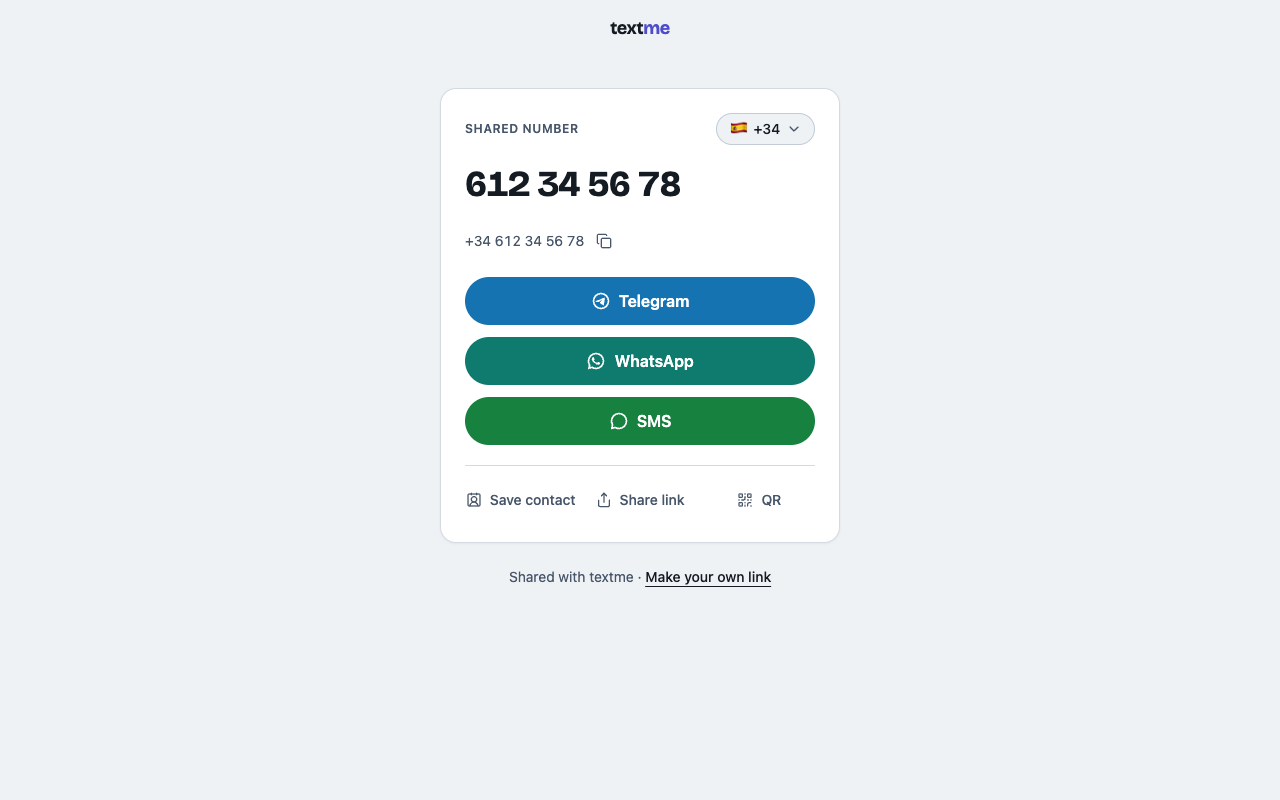
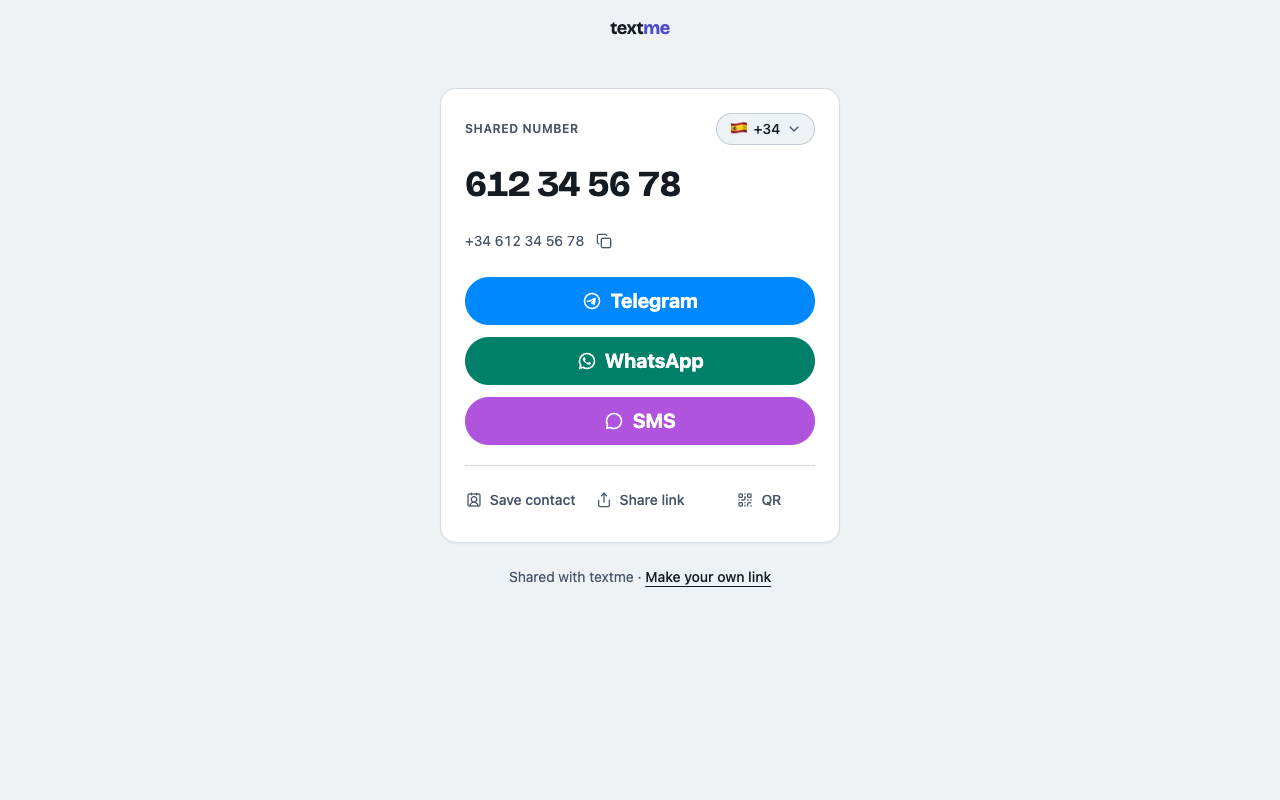
Use each app's own light and dark accent for the message buttons
Telegram: #0088FF day / #3E88F7 night (Telegram-iOS default themes).
WhatsApp: #008069 light (its primary teal) / #25D366 dark (its brand
green, which WhatsApp pairs with dark text). SMS: Apple systemPurple
#AF52DE / #BF5AF2 so it no longer reads as a second green. Each brand
gets a foreground token; labels are 20px bold so the large-text 3:1
threshold applies where white on the brand color sits at 3.5-4.1.

Changed region(s): [[0.3438, 0.4375, 0.6562, 0.5625], [0.3438, 0.3438, 0.6562, 0.4062]]

diff --git a/mockups/card.css b/mockups/card.css
@@ -1,1 +1,1 @@
-*,:after,:before{--tw-border-spacing-x:0;--tw-border-spacing-y:0;--tw-translate-x:0;--tw-translate-y:0;--tw-rotate:0;--tw-skew-x:0;--tw-skew-y:0;--tw-scale-x:1;--tw-scale-y:1;--tw-pan-x: ;--tw-pan-y: ;--tw-pinch-zoom: ;--tw-scroll-snap-strictness:proximity;--tw-gradient-from-position: ;--tw-gradient-via-position: ;--tw-gradient-to-position: ;--tw-ordinal: ;--tw-slashed-zero: ;--tw-numeric-figure: ;--tw-numeric-spacing: ;--tw-numeric-fraction: ;--tw-ring-inset: ;--tw-ring-offset-width:0px;--tw-ring-offset-color:#fff;--tw-ring-color:rgba(59,130,246,.5);--tw-ring-offset-shadow:0 0 #0000;--tw-ring-shadow:0 0 #0000;--tw-shadow:0 0 #0000;--tw-shadow-colored:0 0 #0000;--tw-blur: ;--tw-brightness: ;--tw-contrast: ;--tw-grayscale: ;--tw-hue-rotate: ;--tw-invert: ;--tw-saturate: ;--tw-sepia: ;--tw-drop-shadow: ;--tw-backdrop-blur: ;--tw-backdrop-brightness: ;--tw-backdrop-contrast: ;--tw-backdrop-grayscale: ;--tw-backdrop-hue-rotate: ;--tw-backdrop-invert: ;--tw-backdrop-opacity: ;--tw-backdrop-saturate: ;--tw-backdrop-sepia: ;--tw-contain-size: ;--tw-contain-layout: ;--tw-contain-paint: ;--tw-contain-style: }::backdrop{--tw-border-spacing-x:0;--tw-border-spacing-y:0;--tw-translate-x:0;--tw-translate-y:0;--tw-rotate:0;--tw-skew-x:0;--tw-skew-y:0;--tw-scale-x:1;--tw-scale-y:1;--tw-pan-x: ;--tw-pan-y: ;--tw-pinch-zoom: ;--tw-scroll-snap-strictness:proximity;--tw-gradient-from-position: ;--tw-gradient-via-position: ;--tw-gradient-to-position: ;--tw-ordinal: ;--tw-slashed-zero: ;--tw-numeric-figure: ;--tw-numeric-spacing: ;--tw-numeric-fraction: ;--tw-ring-inset: ;--tw-ring-offset-width:0px;--tw-ring-offset-color:#fff;--tw-ring-color:rgba(59,130,246,.5);--tw-ring-offset-shadow:0 0 #0000;--tw-ring-shadow:0 0 #0000;--tw-shadow:0 0 #0000;--tw-shadow-colored:0 0 #0000;--tw-blur: ;--tw-brightness: ;--tw-contrast: ;--tw-grayscale: ;--tw-hue-rotate: ;--tw-invert: ;--tw-saturate: ;--tw-sepia: ;--tw-drop-shadow: ;--tw-backdrop-blur: ;--tw-backdrop-brightness: ;--tw-backdrop-contrast: ;--tw-backdrop-grayscale: ;--tw-backdrop-hue-rotate: ;--tw-backdrop-invert: ;--tw-backdrop-opacity: ;--tw-backdrop-saturate: ;--tw-backdrop-sepia: ;--tw-contain-size: ;--tw-contain-layout: ;--tw-contain-paint: ;--tw-contain-style: }/*! tailwindcss v3.4.19 | MIT License | https://tailwindcss.com*/*,:after,:before{box-sizing:border-box;border:0 solid #e5e7eb}:after,:before{--tw-content:""}:host,html{line-height:1.5;-webkit-text-size-adjust:100%;-moz-tab-size:4;-o-tab-size:4;tab-size:4;font-family:ui-sans-serif,system-ui,sans-serif,Apple Color Emoji,Segoe UI Emoji,Segoe UI Symbol,Noto Color Emoji;font-feature-settings:normal;font-variation-settings:normal;-webkit-tap-highlight-color:transparent}body{margin:0;line-height:inherit}hr{height:0;color:inherit;border-top-width:1px}abbr:where([title]){-webkit-text-decoration:underline dotted;text-decoration:underline dotted}h1,h2,h3,h4,h5,h6{font-size:inherit;font-weight:inherit}a{color:inherit;text-decoration:inherit}b,strong{font-weight:bolder}code,kbd,pre,samp{font-family:ui-monospace,SFMono-Regular,Menlo,Monaco,Consolas,Liberation Mono,Courier New,monospace;font-feature-settings:normal;font-variation-settings:normal;font-size:1em}small{font-size:80%}sub,sup{font-size:75%;line-height:0;position:relative;vertical-align:baseline}sub{bottom:-.25em}sup{top:-.5em}table{text-indent:0;border-color:inherit;border-collapse:collapse}button,input,optgroup,select,textarea{font-family:inherit;font-feature-settings:inherit;font-variation-settings:inherit;font-size:100%;font-weight:inherit;line-height:inherit;letter-spacing:inherit;color:inherit;margin:0;padding:0}button,select{text-transform:none}button,input:where([type=button]),input:where([type=reset]),input:where([type=submit]){-webkit-appearance:button;background-color:transparent;background-image:none}:-moz-focusring{outline:auto}:-moz-ui-invalid{box-shadow:none}progress{vertical-align:baseline}::-webkit-inner-spin-button,::-webkit-outer-spin-button{height:auto}[type=search]{-webkit-appearance:textfield;outline-offset:-2px}::-webkit-search-decoration{-webkit-appearance:none}::-webkit-file-upload-button{-webkit-appearance:button;font:inherit}summary{display:list-item}blockquote,dd,dl,figure,h1,h2,h3,h4,h5,h6,hr,p,pre{margin:0}fieldset{margin:0}fieldset,legend{padding:0}menu,ol,ul{list-style:none;margin:0;padding:0}dialog{padding:0}textarea{resize:vertical}input::-moz-placeholder,textarea::-moz-placeholder{opacity:1;color:#9ca3af}input::placeholder,textarea::placeholder{opacity:1;color:#9ca3af}[role=button],button{cursor:pointer}:disabled{cursor:default}audio,canvas,embed,iframe,img,object,svg,video{display:block;vertical-align:middle}img,video{max-width:100%;height:auto}[hidden]:where(:not([hidden=until-found])){display:none}:root{--background:0 0% 100%;--foreground:222.2 84% 4.9%;--muted:210 40% 96.1%;--muted-foreground:215.4 16.3% 46.9%;--popover:0 0% 100%;--popover-foreground:222.2 84% 4.9%;--card:0 0% 100%;--card-foreground:222.2 84% 4.9%;--border:214.3 31.8% 91.4%;--input:214.3 31.8% 91.4%;--primary:222.2 47.4% 11.2%;--primary-foreground:210 40% 98%;--secondary:210 40% 96.1%;--secondary-foreground:222.2 47.4% 11.2%;--accent:16 85% 95%;--accent-foreground:16 60% 35%;--destructive:0 72.2% 50.6%;--destructive-foreground:210 40% 98%;--ring:222.2 84% 4.9%;--radius:1rem;--coral:16 85% 60%;--coral-foreground:0 0% 100%}.dark{--background:222.2 84% 4.9%;--foreground:210 40% 98%;--muted:217.2 32.6% 17.5%;--muted-foreground:215 20.2% 65.1%;--popover:222.2 84% 4.9%;--popover-foreground:210 40% 98%;--card:222.2 84% 4.9%;--card-foreground:210 40% 98%;--border:217.2 32.6% 17.5%;--input:217.2 32.6% 17.5%;--primary:210 40% 98%;--primary-foreground:222.2 47.4% 11.2%;--secondary:217.2 32.6% 17.5%;--secondary-foreground:210 40% 98%;--accent:16 60% 25%;--accent-foreground:16 85% 90%;--destructive:0 62.8% 30.6%;--destructive-foreground:210 40% 98%;--ring:212.7 26.8% 83.9%;--coral:16 75% 55%;--coral-foreground:0 0% 100%}*{--tw-border-opacity:1;border-color:hsl(var(--border)/var(--tw-border-opacity,1))}body{--tw-bg-opacity:1;background-color:hsl(var(--background)/var(--tw-bg-opacity,1));--tw-text-opacity:1;color:hsl(var(--foreground)/var(--tw-text-opacity,1))}.pointer-events-none{pointer-events:none}.absolute{position:absolute}.relative{position:relative}.inset-0{inset:0}.inset-x-0{left:0;right:0}.bottom-0{bottom:0}.left-1\/2{left:50%}.right-6{right:1.5rem}.top-1\/2{top:50%}.top-\[4\.5rem\]{top:4.5rem}.z-20{z-index:20}.z-30{z-index:30}.-my-1{margin-top:-.25rem;margin-bottom:-.25rem}.mx-auto{margin-left:auto;margin-right:auto}.-mr-2{margin-right:-.5rem}.ml-2{margin-left:.5rem}.ml-auto{margin-left:auto}.mt-0\.5{margin-top:.125rem}.mt-1{margin-top:.25rem}.mt-4{margin-top:1rem}.block{display:block}.inline{display:inline}.flex{display:flex}.inline-flex{display:inline-flex}.grid{display:grid}.hidden{display:none}.h-10{height:2.5rem}.h-12{height:3rem}.h-14{height:3.5rem}.h-3\.5{height:.875rem}.h-4{height:1rem}.h-5{height:1.25rem}.h-52{height:13rem}.h-7{height:1.75rem}.h-8{height:2rem}.h-9{height:2.25rem}.h-\[18px\]{height:18px}.h-auto{height:auto}.h-full{height:100%}.w-10{width:2.5rem}.w-12{width:3rem}.w-3\.5{width:.875rem}.w-4{width:1rem}.w-5{width:1.25rem}.w-52{width:13rem}.w-7{width:1.75rem}.w-72{width:18rem}.w-8{width:2rem}.w-80{width:20rem}.w-9{width:2.25rem}.w-\[18px\]{width:18px}.w-full{width:100%}.w-max{width:-moz-max-content;width:max-content}.min-w-0{min-width:0}.max-w-\[11rem\]{max-width:11rem}.max-w-md{max-width:28rem}.max-w-xl{max-width:36rem}.flex-1{flex:1 1 0%}.shrink-0{flex-shrink:0}.-translate-x-1\/2{--tw-translate-x:-50%}.-translate-x-1\/2,.-translate-y-1\/2{transform:translate(var(--tw-translate-x),var(--tw-translate-y)) rotate(var(--tw-rotate)) skewX(var(--tw-skew-x)) skewY(var(--tw-skew-y)) scaleX(var(--tw-scale-x)) scaleY(var(--tw-scale-y))}.-translate-y-1\/2{--tw-translate-y:-50%}.transform{transform:translate(var(--tw-translate-x),var(--tw-translate-y)) rotate(var(--tw-rotate)) skewX(var(--tw-skew-x)) skewY(var(--tw-skew-y)) scaleX(var(--tw-scale-x)) scaleY(var(--tw-scale-y))}.resize-none{resize:none}.grid-cols-3{grid-template-columns:repeat(3,minmax(0,1fr))}.flex-wrap{flex-wrap:wrap}.items-start{align-items:flex-start}.items-center{align-items:center}.justify-center{justify-content:center}.justify-between{justify-content:space-between}.gap-1{gap:.25rem}.gap-1\.5{gap:.375rem}.gap-2{gap:.5rem}.gap-3{gap:.75rem}.space-y-1\.5>:not([hidden])~:not([hidden]){--tw-space-y-reverse:0;margin-top:calc(.375rem*(1 - var(--tw-space-y-reverse)));margin-bottom:calc(.375rem*var(--tw-space-y-reverse))}.space-y-2>:not([hidden])~:not([hidden]){--tw-space-y-reverse:0;margin-top:calc(.5rem*(1 - var(--tw-space-y-reverse)));margin-bottom:calc(.5rem*var(--tw-space-y-reverse))}.space-y-3>:not([hidden])~:not([hidden]){--tw-space-y-reverse:0;margin-top:calc(.75rem*(1 - var(--tw-space-y-reverse)));margin-bottom:calc(.75rem*var(--tw-space-y-reverse))}.space-y-4>:not([hidden])~:not([hidden]){--tw-space-y-reverse:0;margin-top:calc(1rem*(1 - var(--tw-space-y-reverse)));margin-bottom:calc(1rem*var(--tw-space-y-reverse))}.space-y-5>:not([hidden])~:not([hidden]){--tw-space-y-reverse:0;margin-top:calc(1.25rem*(1 - var(--tw-space-y-reverse)));margin-bottom:calc(1.25rem*var(--tw-space-y-reverse))}.divide-y>:not([hidden])~:not([hidden]){--tw-divide-y-reverse:0;border-top-width:calc(1px*(1 - var(--tw-divide-y-reverse)));border-bottom-width:calc(1px*var(--tw-divide-y-reverse))}.overflow-hidden,.truncate{overflow:hidden}.truncate{text-overflow:ellipsis}.truncate,.whitespace-nowrap{white-space:nowrap}.rounded-2xl{border-radius:1rem}.rounded-full{border-radius:9999px}.rounded-lg{border-radius:var(--radius)}.rounded-md{border-radius:calc(var(--radius) - 2px)}.rounded-sm{border-radius:calc(var(--radius) - 4px)}.rounded-t-2xl{border-top-left-radius:1rem;border-top-right-radius:1rem}.border{border-width:1px}.border-b{border-bottom-width:1px}.border-t{border-top-width:1px}.border-destructive{--tw-border-opacity:1;border-color:hsl(var(--destructive)/var(--tw-border-opacity,1))}.border-input{--tw-border-opacity:1;border-color:hsl(var(--input)/var(--tw-border-opacity,1))}.bg-\[hsl\(var\(--sms\)\)\]{background-color:hsl(var(--sms))}.bg-\[hsl\(var\(--telegram\)\)\]{background-color:hsl(var(--telegram))}.bg-\[hsl\(var\(--whatsapp\)\)\]{background-color:hsl(var(--whatsapp))}.bg-accent{--tw-bg-opacity:1;background-color:hsl(var(--accent)/var(--tw-bg-opacity,1))}.bg-background{--tw-bg-opacity:1;background-color:hsl(var(--background)/var(--tw-bg-opacity,1))}.bg-black\/50{background-color:rgba(0,0,0,.5)}.bg-card{--tw-bg-opacity:1;background-color:hsl(var(--card)/var(--tw-bg-opacity,1))}.bg-muted{--tw-bg-opacity:1;background-color:hsl(var(--muted)/var(--tw-bg-opacity,1))}.bg-popover{--tw-bg-opacity:1;background-color:hsl(var(--popover)/var(--tw-bg-opacity,1))}.bg-primary{--tw-bg-opacity:1;background-color:hsl(var(--primary)/var(--tw-bg-opacity,1))}.bg-primary\/10{background-color:hsl(var(--primary)/.1)}.bg-secondary{--tw-bg-opacity:1;background-color:hsl(var(--secondary)/var(--tw-bg-opacity,1))}.bg-transparent{background-color:transparent}.bg-white{--tw-bg-opacity:1;background-color:rgb(255 255 255/var(--tw-bg-opacity,1))}.p-1{padding:.25rem}.p-2{padding:.5rem}.p-3{padding:.75rem}.p-6{padding:1.5rem}.px-1\.5{padding-left:.375rem;padding-right:.375rem}.px-2{padding-left:.5rem;padding-right:.5rem}.px-3{padding-left:.75rem;padding-right:.75rem}.px-4{padding-left:1rem;padding-right:1rem}.px-6{padding-left:1.5rem;padding-right:1.5rem}.py-1\.5{padding-top:.375rem;padding-bottom:.375rem}.py-2{padding-top:.5rem;padding-bottom:.5rem}.py-2\.5{padding-top:.625rem;padding-bottom:.625rem}.pb-10{padding-bottom:2.5rem}.pb-2{padding-bottom:.5rem}.pb-4{padding-bottom:1rem}.pb-6{padding-bottom:1.5rem}.pl-3{padding-left:.75rem}.pr-1{padding-right:.25rem}.pt-1{padding-top:.25rem}.pt-4{padding-top:1rem}.pt-6{padding-top:1.5rem}.pt-8{padding-top:2rem}.text-center{text-align:center}.font-mono{font-family:ui-monospace,SFMono-Regular,Menlo,Monaco,Consolas,Liberation Mono,Courier New,monospace}.text-3xl{font-size:1.875rem;line-height:2.25rem}.text-4xl{font-size:2.25rem;line-height:2.5rem}.text-base{font-size:1rem;line-height:1.5rem}.text-lg{font-size:1.125rem;line-height:1.75rem}.text-sm{font-size:.875rem;line-height:1.25rem}.text-xl{font-size:1.25rem;line-height:1.75rem}.text-xs{font-size:.75rem;line-height:1rem}.font-bold{font-weight:700}.font-medium{font-weight:500}.font-normal{font-weight:400}.font-semibold{font-weight:600}.uppercase{text-transform:uppercase}.tabular-nums{--tw-numeric-spacing:tabular-nums;font-variant-numeric:var(--tw-ordinal) var(--tw-slashed-zero) var(--tw-numeric-figure) var(--tw-numeric-spacing) var(--tw-numeric-fraction)}.leading-6{line-height:1.5rem}.tracking-tight{letter-spacing:-.025em}.tracking-wider{letter-spacing:.05em}.text-\[hsl\(var\(--brand-foreground\)\)\]{color:hsl(var(--brand-foreground))}.text-\[hsl\(var\(--sms\)\)\]{color:hsl(var(--sms))}.text-\[hsl\(var\(--telegram\)\)\]{color:hsl(var(--telegram))}.text-\[hsl\(var\(--whatsapp\)\)\]{color:hsl(var(--whatsapp))}.text-accent-foreground{--tw-text-opacity:1;color:hsl(var(--accent-foreground)/var(--tw-text-opacity,1))}.text-black{--tw-text-opacity:1;color:rgb(0 0 0/var(--tw-text-opacity,1))}.text-card-foreground{--tw-text-opacity:1;color:hsl(var(--card-foreground)/var(--tw-text-opacity,1))}.text-destructive{--tw-text-opacity:1;color:hsl(var(--destructive)/var(--tw-text-opacity,1))}.text-foreground{--tw-text-opacity:1;color:hsl(var(--foreground)/var(--tw-text-opacity,1))}.text-muted-foreground{--tw-text-opacity:1;color:hsl(var(--muted-foreground)/var(--tw-text-opacity,1))}.text-muted-foreground\/50{color:hsl(var(--muted-foreground)/.5)}.text-popover-foreground{--tw-text-opacity:1;color:hsl(var(--popover-foreground)/var(--tw-text-opacity,1))}.text-primary{--tw-text-opacity:1;color:hsl(var(--primary)/var(--tw-text-opacity,1))}.text-primary-foreground{--tw-text-opacity:1;color:hsl(var(--primary-foreground)/var(--tw-text-opacity,1))}.text-secondary-foreground{--tw-text-opacity:1;color:hsl(var(--secondary-foreground)/var(--tw-text-opacity,1))}.underline{text-decoration-line:underline}.underline-offset-4{text-underline-offset:4px}.antialiased{-webkit-font-smoothing:antialiased;-moz-osx-font-smoothing:grayscale}.opacity-50{opacity:.5}.shadow-lg{--tw-shadow:0 10px 15px -3px rgba(0,0,0,.1),0 4px 6px -4px rgba(0,0,0,.1);--tw-shadow-colored:0 10px 15px -3px var(--tw-shadow-color),0 4px 6px -4px var(--tw-shadow-color)}.shadow-lg,.shadow-md{box-shadow:var(--tw-ring-offset-shadow,0 0 #0000),var(--tw-ring-shadow,0 0 #0000),var(--tw-shadow)}.shadow-md{--tw-shadow:0 4px 6px -1px rgba(0,0,0,.1),0 2px 4px -2px rgba(0,0,0,.1);--tw-shadow-colored:0 4px 6px -1px var(--tw-shadow-color),0 2px 4px -2px var(--tw-shadow-color)}.shadow-sm{--tw-shadow:0 1px 2px 0 rgba(0,0,0,.05);--tw-shadow-colored:0 1px 2px 0 var(--tw-shadow-color);box-shadow:var(--tw-ring-offset-shadow,0 0 #0000),var(--tw-ring-shadow,0 0 #0000),var(--tw-shadow)}.outline-none{outline:2px solid transparent;outline-offset:2px}.outline{outline-style:solid}.ring{--tw-ring-offset-shadow:var(--tw-ring-inset) 0 0 0 var(--tw-ring-offset-width) var(--tw-ring-offset-color);--tw-ring-shadow:var(--tw-ring-inset) 0 0 0 calc(3px + var(--tw-ring-offset-width)) var(--tw-ring-color)}.ring,.ring-2{box-shadow:var(--tw-ring-offset-shadow),var(--tw-ring-shadow),var(--tw-shadow,0 0 #0000)}.ring-2{--tw-ring-offset-shadow:var(--tw-ring-inset) 0 0 0 var(--tw-ring-offset-width) var(--tw-ring-offset-color);--tw-ring-shadow:var(--tw-ring-inset) 0 0 0 calc(2px + var(--tw-ring-offset-width)) var(--tw-ring-color)}.ring-ring{--tw-ring-opacity:1;--tw-ring-color:hsl(var(--ring)/var(--tw-ring-opacity,1))}.ring-offset-2{--tw-ring-offset-width:2px}.ring-offset-background{--tw-ring-offset-color:hsl(var(--background)/1)}.transition{transition-property:color,background-color,border-color,text-decoration-color,fill,stroke,opacity,box-shadow,transform,filter,backdrop-filter;transition-timing-function:cubic-bezier(.4,0,.2,1);transition-duration:.15s}.transition-colors{transition-property:color,background-color,border-color,text-decoration-color,fill,stroke;transition-timing-function:cubic-bezier(.4,0,.2,1);transition-duration:.15s}.placeholder\:text-muted-foreground::-moz-placeholder{--tw-text-opacity:1;color:hsl(var(--muted-foreground)/var(--tw-text-opacity,1))}.placeholder\:text-muted-foreground::placeholder{--tw-text-opacity:1;color:hsl(var(--muted-foreground)/var(--tw-text-opacity,1))}.hover\:bg-\[hsl\(var\(--sms\)\)\]\/90:hover{background-color:hsl(var(--sms)/.9)}.hover\:bg-\[hsl\(var\(--telegram\)\)\]\/90:hover{background-color:hsl(var(--telegram)/.9)}.hover\:bg-\[hsl\(var\(--whatsapp\)\)\]\/90:hover{background-color:hsl(var(--whatsapp)/.9)}.hover\:bg-accent:hover{--tw-bg-opacity:1;background-color:hsl(var(--accent)/var(--tw-bg-opacity,1))}.hover\:bg-primary\/90:hover{background-color:hsl(var(--primary)/.9)}.hover\:bg-secondary\/80:hover{background-color:hsl(var(--secondary)/.8)}.hover\:text-accent-foreground:hover{--tw-text-opacity:1;color:hsl(var(--accent-foreground)/var(--tw-text-opacity,1))}.focus-visible\:outline-none:focus-visible{outline:2px solid transparent;outline-offset:2px}.focus-visible\:ring-2:focus-visible{--tw-ring-offset-shadow:var(--tw-ring-inset) 0 0 0 var(--tw-ring-offset-width) var(--tw-ring-offset-color);--tw-ring-shadow:var(--tw-ring-inset) 0 0 0 calc(2px + var(--tw-ring-offset-width)) var(--tw-ring-color);box-shadow:var(--tw-ring-offset-shadow),var(--tw-ring-shadow),var(--tw-shadow,0 0 #0000)}.focus-visible\:ring-ring:focus-visible{--tw-ring-opacity:1;--tw-ring-color:hsl(var(--ring)/var(--tw-ring-opacity,1))}.focus-visible\:ring-offset-2:focus-visible{--tw-ring-offset-width:2px}.disabled\:pointer-events-none:disabled{pointer-events:none}.disabled\:opacity-50:disabled{opacity:.5}
+*,:after,:before{--tw-border-spacing-x:0;--tw-border-spacing-y:0;--tw-translate-x:0;--tw-translate-y:0;--tw-rotate:0;--tw-skew-x:0;--tw-skew-y:0;--tw-scale-x:1;--tw-scale-y:1;--tw-pan-x: ;--tw-pan-y: ;--tw-pinch-zoom: ;--tw-scroll-snap-strictness:proximity;--tw-gradient-from-position: ;--tw-gradient-via-position: ;--tw-gradient-to-position: ;--tw-ordinal: ;--tw-slashed-zero: ;--tw-numeric-figure: ;--tw-numeric-spacing: ;--tw-numeric-fraction: ;--tw-ring-inset: ;--tw-ring-offset-width:0px;--tw-ring-offset-color:#fff;--tw-ring-color:rgba(59,130,246,.5);--tw-ring-offset-shadow:0 0 #0000;--tw-ring-shadow:0 0 #0000;--tw-shadow:0 0 #0000;--tw-shadow-colored:0 0 #0000;--tw-blur: ;--tw-brightness: ;--tw-contrast: ;--tw-grayscale: ;--tw-hue-rotate: ;--tw-invert: ;--tw-saturate: ;--tw-sepia: ;--tw-drop-shadow: ;--tw-backdrop-blur: ;--tw-backdrop-brightness: ;--tw-backdrop-contrast: ;--tw-backdrop-grayscale: ;--tw-backdrop-hue-rotate: ;--tw-backdrop-invert: ;--tw-backdrop-opacity: ;--tw-backdrop-saturate: ;--tw-backdrop-sepia: ;--tw-contain-size: ;--tw-contain-layout: ;--tw-contain-paint: ;--tw-contain-style: }::backdrop{--tw-border-spacing-x:0;--tw-border-spacing-y:0;--tw-translate-x:0;--tw-translate-y:0;--tw-rotate:0;--tw-skew-x:0;--tw-skew-y:0;--tw-scale-x:1;--tw-scale-y:1;--tw-pan-x: ;--tw-pan-y: ;--tw-pinch-zoom: ;--tw-scroll-snap-strictness:proximity;--tw-gradient-from-position: ;--tw-gradient-via-position: ;--tw-gradient-to-position: ;--tw-ordinal: ;--tw-slashed-zero: ;--tw-numeric-figure: ;--tw-numeric-spacing: ;--tw-numeric-fraction: ;--tw-ring-inset: ;--tw-ring-offset-width:0px;--tw-ring-offset-color:#fff;--tw-ring-color:rgba(59,130,246,.5);--tw-ring-offset-shadow:0 0 #0000;--tw-ring-shadow:0 0 #0000;--tw-shadow:0 0 #0000;--tw-shadow-colored:0 0 #0000;--tw-blur: ;--tw-brightness: ;--tw-contrast: ;--tw-grayscale: ;--tw-hue-rotate: ;--tw-invert: ;--tw-saturate: ;--tw-sepia: ;--tw-drop-shadow: ;--tw-backdrop-blur: ;--tw-backdrop-brightness: ;--tw-backdrop-contrast: ;--tw-backdrop-grayscale: ;--tw-backdrop-hue-rotate: ;--tw-backdrop-invert: ;--tw-backdrop-opacity: ;--tw-backdrop-saturate: ;--tw-backdrop-sepia: ;--tw-contain-size: ;--tw-contain-layout: ;--tw-contain-paint: ;--tw-contain-style: }/*! tailwindcss v3.4.19 | MIT License | https://tailwindcss.com*/*,:after,:before{box-sizing:border-box;border:0 solid #e5e7eb}:after,:before{--tw-content:""}:host,html{line-height:1.5;-webkit-text-size-adjust:100%;-moz-tab-size:4;-o-tab-size:4;tab-size:4;font-family:ui-sans-serif,system-ui,sans-serif,Apple Color Emoji,Segoe UI Emoji,Segoe UI Symbol,Noto Color Emoji;font-feature-settings:normal;font-variation-settings:normal;-webkit-tap-highlight-color:transparent}body{margin:0;line-height:inherit}hr{height:0;color:inherit;border-top-width:1px}abbr:where([title]){-webkit-text-decoration:underline dotted;text-decoration:underline dotted}h1,h2,h3,h4,h5,h6{font-size:inherit;font-weight:inherit}a{color:inherit;text-decoration:inherit}b,strong{font-weight:bolder}code,kbd,pre,samp{font-family:ui-monospace,SFMono-Regular,Menlo,Monaco,Consolas,Liberation Mono,Courier New,monospace;font-feature-settings:normal;font-variation-settings:normal;font-size:1em}small{font-size:80%}sub,sup{font-size:75%;line-height:0;position:relative;vertical-align:baseline}sub{bottom:-.25em}sup{top:-.5em}table{text-indent:0;border-color:inherit;border-collapse:collapse}button,input,optgroup,select,textarea{font-family:inherit;font-feature-settings:inherit;font-variation-settings:inherit;font-size:100%;font-weight:inherit;line-height:inherit;letter-spacing:inherit;color:inherit;margin:0;padding:0}button,select{text-transform:none}button,input:where([type=button]),input:where([type=reset]),input:where([type=submit]){-webkit-appearance:button;background-color:transparent;background-image:none}:-moz-focusring{outline:auto}:-moz-ui-invalid{box-shadow:none}progress{vertical-align:baseline}::-webkit-inner-spin-button,::-webkit-outer-spin-button{height:auto}[type=search]{-webkit-appearance:textfield;outline-offset:-2px}::-webkit-search-decoration{-webkit-appearance:none}::-webkit-file-upload-button{-webkit-appearance:button;font:inherit}summary{display:list-item}blockquote,dd,dl,figure,h1,h2,h3,h4,h5,h6,hr,p,pre{margin:0}fieldset{margin:0}fieldset,legend{padding:0}menu,ol,ul{list-style:none;margin:0;padding:0}dialog{padding:0}textarea{resize:vertical}input::-moz-placeholder,textarea::-moz-placeholder{opacity:1;color:#9ca3af}input::placeholder,textarea::placeholder{opacity:1;color:#9ca3af}[role=button],button{cursor:pointer}:disabled{cursor:default}audio,canvas,embed,iframe,img,object,svg,video{display:block;vertical-align:middle}img,video{max-width:100%;height:auto}[hidden]:where(:not([hidden=until-found])){display:none}:root{--background:216 25% 95%;--foreground:215 25% 11%;--card:0 0% 100%;--card-foreground:215 25% 11%;--popover:0 0% 100%;--popover-foreground:215 25% 11%;--muted:214 24% 92%;--muted-foreground:215 19% 35%;--accent:214 24% 92%;--accent-foreground:215 25% 11%;--secondary:214 24% 92%;--secondary-foreground:215 25% 11%;--border:214 20% 86%;--input:214 20% 80%;--primary:240 55% 55%;--primary-foreground:0 0% 100%;--destructive:0 65% 45%;--destructive-foreground:0 0% 100%;--ring:240 55% 55%;--radius:0.75rem;--telegram:208 100% 50%;--telegram-foreground:0 0% 100%;--whatsapp:169 100% 25%;--whatsapp-foreground:0 0% 100%;--sms:280 68% 60%;--sms-foreground:0 0% 100%}.dark{--background:220 20% 8%;--foreground:210 20% 96%;--card:220 18% 12%;--card-foreground:210 20% 96%;--popover:220 18% 12%;--popover-foreground:210 20% 96%;--muted:220 15% 17%;--muted-foreground:215 15% 70%;--accent:220 15% 17%;--accent-foreground:210 20% 96%;--secondary:220 15% 17%;--secondary-foreground:210 20% 96%;--border:220 14% 20%;--input:220 14% 26%;--primary:240 70% 74%;--primary-foreground:240 30% 12%;--destructive:0 70% 62%;--destructive-foreground:0 0% 100%;--ring:240 70% 74%;--telegram:216 92% 61%;--telegram-foreground:0 0% 100%;--whatsapp:142 70% 49%;--whatsapp-foreground:220 20% 8%;--sms:280 85% 65%;--sms-foreground:0 0% 100%}*{--tw-border-opacity:1;border-color:hsl(var(--border)/var(--tw-border-opacity,1))}body{--tw-bg-opacity:1;background-color:hsl(var(--background)/var(--tw-bg-opacity,1));--tw-text-opacity:1;color:hsl(var(--foreground)/var(--tw-text-opacity,1))}.pointer-events-none{pointer-events:none}.absolute{position:absolute}.relative{position:relative}.inset-0{inset:0}.inset-x-0{left:0;right:0}.bottom-0{bottom:0}.left-1\/2{left:50%}.right-6{right:1.5rem}.top-1\/2{top:50%}.top-\[4\.5rem\]{top:4.5rem}.z-20{z-index:20}.z-30{z-index:30}.-my-1{margin-top:-.25rem;margin-bottom:-.25rem}.mx-auto{margin-left:auto;margin-right:auto}.-mr-2{margin-right:-.5rem}.ml-2{margin-left:.5rem}.ml-auto{margin-left:auto}.mt-0\.5{margin-top:.125rem}.mt-1{margin-top:.25rem}.mt-4{margin-top:1rem}.block{display:block}.inline{display:inline}.flex{display:flex}.inline-flex{display:inline-flex}.grid{display:grid}.hidden{display:none}.h-10{height:2.5rem}.h-12{height:3rem}.h-14{height:3.5rem}.h-3\.5{height:.875rem}.h-4{height:1rem}.h-5{height:1.25rem}.h-52{height:13rem}.h-7{height:1.75rem}.h-8{height:2rem}.h-9{height:2.25rem}.h-\[18px\]{height:18px}.h-auto{height:auto}.h-full{height:100%}.w-10{width:2.5rem}.w-12{width:3rem}.w-3\.5{width:.875rem}.w-4{width:1rem}.w-5{width:1.25rem}.w-52{width:13rem}.w-7{width:1.75rem}.w-72{width:18rem}.w-8{width:2rem}.w-80{width:20rem}.w-9{width:2.25rem}.w-\[18px\]{width:18px}.w-full{width:100%}.w-max{width:-moz-max-content;width:max-content}.min-w-0{min-width:0}.max-w-\[11rem\]{max-width:11rem}.max-w-md{max-width:28rem}.max-w-xl{max-width:36rem}.flex-1{flex:1 1 0%}.shrink-0{flex-shrink:0}.-translate-x-1\/2{--tw-translate-x:-50%}.-translate-x-1\/2,.-translate-y-1\/2{transform:translate(var(--tw-translate-x),var(--tw-translate-y)) rotate(var(--tw-rotate)) skewX(var(--tw-skew-x)) skewY(var(--tw-skew-y)) scaleX(var(--tw-scale-x)) scaleY(var(--tw-scale-y))}.-translate-y-1\/2{--tw-translate-y:-50%}.transform{transform:translate(var(--tw-translate-x),var(--tw-translate-y)) rotate(var(--tw-rotate)) skewX(var(--tw-skew-x)) skewY(var(--tw-skew-y)) scaleX(var(--tw-scale-x)) scaleY(var(--tw-scale-y))}.resize-none{resize:none}.grid-cols-3{grid-template-columns:repeat(3,minmax(0,1fr))}.flex-wrap{flex-wrap:wrap}.items-start{align-items:flex-start}.items-center{align-items:center}.justify-center{justify-content:center}.justify-between{justify-content:space-between}.gap-1{gap:.25rem}.gap-1\.5{gap:.375rem}.gap-2{gap:.5rem}.gap-3{gap:.75rem}.space-y-1\.5>:not([hidden])~:not([hidden]){--tw-space-y-reverse:0;margin-top:calc(.375rem*(1 - var(--tw-space-y-reverse)));margin-bottom:calc(.375rem*var(--tw-space-y-reverse))}.space-y-2>:not([hidden])~:not([hidden]){--tw-space-y-reverse:0;margin-top:calc(.5rem*(1 - var(--tw-space-y-reverse)));margin-bottom:calc(.5rem*var(--tw-space-y-reverse))}.space-y-3>:not([hidden])~:not([hidden]){--tw-space-y-reverse:0;margin-top:calc(.75rem*(1 - var(--tw-space-y-reverse)));margin-bottom:calc(.75rem*var(--tw-space-y-reverse))}.space-y-4>:not([hidden])~:not([hidden]){--tw-space-y-reverse:0;margin-top:calc(1rem*(1 - var(--tw-space-y-reverse)));margin-bottom:calc(1rem*var(--tw-space-y-reverse))}.space-y-5>:not([hidden])~:not([hidden]){--tw-space-y-reverse:0;margin-top:calc(1.25rem*(1 - var(--tw-space-y-reverse)));margin-bottom:calc(1.25rem*var(--tw-space-y-reverse))}.divide-y>:not([hidden])~:not([hidden]){--tw-divide-y-reverse:0;border-top-width:calc(1px*(1 - var(--tw-divide-y-reverse)));border-bottom-width:calc(1px*var(--tw-divide-y-reverse))}.overflow-hidden,.truncate{overflow:hidden}.truncate{text-overflow:ellipsis}.truncate,.whitespace-nowrap{white-space:nowrap}.rounded-2xl{border-radius:1rem}.rounded-full{border-radius:9999px}.rounded-lg{border-radius:var(--radius)}.rounded-md{border-radius:calc(var(--radius) - 2px)}.rounded-sm{border-radius:calc(var(--radius) - 4px)}.rounded-t-2xl{border-top-left-radius:1rem;border-top-right-radius:1rem}.border{border-width:1px}.border-b{border-bottom-width:1px}.border-t{border-top-width:1px}.border-destructive{--tw-border-opacity:1;border-color:hsl(var(--destructive)/var(--tw-border-opacity,1))}.border-input{--tw-border-opacity:1;border-color:hsl(var(--input)/var(--tw-border-opacity,1))}.bg-\[hsl\(var\(--sms\)\)\]{background-color:hsl(var(--sms))}.bg-\[hsl\(var\(--telegram\)\)\]{background-color:hsl(var(--telegram))}.bg-\[hsl\(var\(--whatsapp\)\)\]{background-color:hsl(var(--whatsapp))}.bg-accent{--tw-bg-opacity:1;background-color:hsl(var(--accent)/var(--tw-bg-opacity,1))}.bg-background{--tw-bg-opacity:1;background-color:hsl(var(--background)/var(--tw-bg-opacity,1))}.bg-black\/50{background-color:rgba(0,0,0,.5)}.bg-card{--tw-bg-opacity:1;background-color:hsl(var(--card)/var(--tw-bg-opacity,1))}.bg-muted{--tw-bg-opacity:1;background-color:hsl(var(--muted)/var(--tw-bg-opacity,1))}.bg-popover{--tw-bg-opacity:1;background-color:hsl(var(--popover)/var(--tw-bg-opacity,1))}.bg-primary{--tw-bg-opacity:1;background-color:hsl(var(--primary)/var(--tw-bg-opacity,1))}.bg-primary\/10{background-color:hsl(var(--primary)/.1)}.bg-secondary{--tw-bg-opacity:1;background-color:hsl(var(--secondary)/var(--tw-bg-opacity,1))}.bg-transparent{background-color:transparent}.bg-white{--tw-bg-opacity:1;background-color:rgb(255 255 255/var(--tw-bg-opacity,1))}.p-1{padding:.25rem}.p-2{padding:.5rem}.p-3{padding:.75rem}.p-6{padding:1.5rem}.px-1\.5{padding-left:.375rem;padding-right:.375rem}.px-2{padding-left:.5rem;padding-right:.5rem}.px-3{padding-left:.75rem;padding-right:.75rem}.px-4{padding-left:1rem;padding-right:1rem}.px-6{padding-left:1.5rem;padding-right:1.5rem}.py-1\.5{padding-top:.375rem;padding-bottom:.375rem}.py-2{padding-top:.5rem;padding-bottom:.5rem}.py-2\.5{padding-top:.625rem;padding-bottom:.625rem}.pb-10{padding-bottom:2.5rem}.pb-2{padding-bottom:.5rem}.pb-4{padding-bottom:1rem}.pb-6{padding-bottom:1.5rem}.pl-3{padding-left:.75rem}.pr-1{padding-right:.25rem}.pt-1{padding-top:.25rem}.pt-4{padding-top:1rem}.pt-6{padding-top:1.5rem}.pt-8{padding-top:2rem}.text-center{text-align:center}.font-display{font-family:Bricolage Grotesque Variable,ui-sans-serif,system-ui,sans-serif,Apple Color Emoji,Segoe UI Emoji,Segoe UI Symbol,Noto Color Emoji}.font-mono{font-family:ui-monospace,SFMono-Regular,Menlo,Monaco,Consolas,Liberation Mono,Courier New,monospace}.text-3xl{font-size:1.875rem;line-height:2.25rem}.text-4xl{font-size:2.25rem;line-height:2.5rem}.text-base{font-size:1rem;line-height:1.5rem}.text-lg{font-size:1.125rem;line-height:1.75rem}.text-sm{font-size:.875rem;line-height:1.25rem}.text-xl{font-size:1.25rem;line-height:1.75rem}.text-xs{font-size:.75rem;line-height:1rem}.font-bold{font-weight:700}.font-medium{font-weight:500}.font-normal{font-weight:400}.font-semibold{font-weight:600}.uppercase{text-transform:uppercase}.tabular-nums{--tw-numeric-spacing:tabular-nums;font-variant-numeric:var(--tw-ordinal) var(--tw-slashed-zero) var(--tw-numeric-figure) var(--tw-numeric-spacing) var(--tw-numeric-fraction)}.leading-6{line-height:1.5rem}.tracking-tight{letter-spacing:-.025em}.tracking-wider{letter-spacing:.05em}.text-\[hsl\(var\(--sms\)\)\]{color:hsl(var(--sms))}.text-\[hsl\(var\(--sms-foreground\)\)\]{color:hsl(var(--sms-foreground))}.text-\[hsl\(var\(--telegram\)\)\]{color:hsl(var(--telegram))}.text-\[hsl\(var\(--telegram-foreground\)\)\]{color:hsl(var(--telegram-foreground))}.text-\[hsl\(var\(--whatsapp\)\)\]{color:hsl(var(--whatsapp))}.text-\[hsl\(var\(--whatsapp-foreground\)\)\]{color:hsl(var(--whatsapp-foreground))}.text-accent-foreground{--tw-text-opacity:1;color:hsl(var(--accent-foreground)/var(--tw-text-opacity,1))}.text-black{--tw-text-opacity:1;color:rgb(0 0 0/var(--tw-text-opacity,1))}.text-card-foreground{--tw-text-opacity:1;color:hsl(var(--card-foreground)/var(--tw-text-opacity,1))}.text-destructive{--tw-text-opacity:1;color:hsl(var(--destructive)/var(--tw-text-opacity,1))}.text-foreground{--tw-text-opacity:1;color:hsl(var(--foreground)/var(--tw-text-opacity,1))}.text-muted-foreground{--tw-text-opacity:1;color:hsl(var(--muted-foreground)/var(--tw-text-opacity,1))}.text-muted-foreground\/50{color:hsl(var(--muted-foreground)/.5)}.text-popover-foreground{--tw-text-opacity:1;color:hsl(var(--popover-foreground)/var(--tw-text-opacity,1))}.text-primary{--tw-text-opacity:1;color:hsl(var(--primary)/var(--tw-text-opacity,1))}.text-primary-foreground{--tw-text-opacity:1;color:hsl(var(--primary-foreground)/var(--tw-text-opacity,1))}.text-secondary-foreground{--tw-text-opacity:1;color:hsl(var(--secondary-foreground)/var(--tw-text-opacity,1))}.underline{text-decoration-line:underline}.underline-offset-4{text-underline-offset:4px}.antialiased{-webkit-font-smoothing:antialiased;-moz-osx-font-smoothing:grayscale}.opacity-50{opacity:.5}.shadow-lg{--tw-shadow:0 10px 15px -3px rgba(0,0,0,.1),0 4px 6px -4px rgba(0,0,0,.1);--tw-shadow-colored:0 10px 15px -3px var(--tw-shadow-color),0 4px 6px -4px var(--tw-shadow-color)}.shadow-lg,.shadow-md{box-shadow:var(--tw-ring-offset-shadow,0 0 #0000),var(--tw-ring-shadow,0 0 #0000),var(--tw-shadow)}.shadow-md{--tw-shadow:0 4px 6px -1px rgba(0,0,0,.1),0 2px 4px -2px rgba(0,0,0,.1);--tw-shadow-colored:0 4px 6px -1px var(--tw-shadow-color),0 2px 4px -2px var(--tw-shadow-color)}.shadow-sm{--tw-shadow:0 1px 2px 0 rgba(0,0,0,.05);--tw-shadow-colored:0 1px 2px 0 var(--tw-shadow-color);box-shadow:var(--tw-ring-offset-shadow,0 0 #0000),var(--tw-ring-shadow,0 0 #0000),var(--tw-shadow)}.outline-none{outline:2px solid transparent;outline-offset:2px}.outline{outline-style:solid}.ring{--tw-ring-offset-shadow:var(--tw-ring-inset) 0 0 0 var(--tw-ring-offset-width) var(--tw-ring-offset-color);--tw-ring-shadow:var(--tw-ring-inset) 0 0 0 calc(3px + var(--tw-ring-offset-width)) var(--tw-ring-color)}.ring,.ring-2{box-shadow:var(--tw-ring-offset-shadow),var(--tw-ring-shadow),var(--tw-shadow,0 0 #0000)}.ring-2{--tw-ring-offset-shadow:var(--tw-ring-inset) 0 0 0 var(--tw-ring-offset-width) var(--tw-ring-offset-color);--tw-ring-shadow:var(--tw-ring-inset) 0 0 0 calc(2px + var(--tw-ring-offset-width)) var(--tw-ring-color)}.ring-ring{--tw-ring-opacity:1;--tw-ring-color:hsl(var(--ring)/var(--tw-ring-opacity,1))}.ring-offset-2{--tw-ring-offset-width:2px}.ring-offset-background{--tw-ring-offset-color:hsl(var(--background)/1)}.transition{transition-property:color,background-color,border-color,text-decoration-color,fill,stroke,opacity,box-shadow,transform,filter,backdrop-filter;transition-timing-function:cubic-bezier(.4,0,.2,1);transition-duration:.15s}.transition-colors{transition-property:color,background-color,border-color,text-decoration-color,fill,stroke;transition-timing-function:cubic-bezier(.4,0,.2,1);transition-duration:.15s}.placeholder\:text-muted-foreground::-moz-placeholder{--tw-text-opacity:1;color:hsl(var(--muted-foreground)/var(--tw-text-opacity,1))}.placeholder\:text-muted-foreground::placeholder{--tw-text-opacity:1;color:hsl(var(--muted-foreground)/var(--tw-text-opacity,1))}.hover\:bg-\[hsl\(var\(--sms\)\)\]\/90:hover{background-color:hsl(var(--sms)/.9)}.hover\:bg-\[hsl\(var\(--telegram\)\)\]\/90:hover{background-color:hsl(var(--telegram)/.9)}.hover\:bg-\[hsl\(var\(--whatsapp\)\)\]\/90:hover{background-color:hsl(var(--whatsapp)/.9)}.hover\:bg-accent:hover{--tw-bg-opacity:1;background-color:hsl(var(--accent)/var(--tw-bg-opacity,1))}.hover\:bg-primary\/90:hover{background-color:hsl(var(--primary)/.9)}.hover\:bg-secondary\/80:hover{background-color:hsl(var(--secondary)/.8)}.hover\:text-accent-foreground:hover{--tw-text-opacity:1;color:hsl(var(--accent-foreground)/var(--tw-text-opacity,1))}.focus-visible\:outline-none:focus-visible{outline:2px solid transparent;outline-offset:2px}.focus-visible\:ring-2:focus-visible{--tw-ring-offset-shadow:var(--tw-ring-inset) 0 0 0 var(--tw-ring-offset-width) var(--tw-ring-offset-color);--tw-ring-shadow:var(--tw-ring-inset) 0 0 0 calc(2px + var(--tw-ring-offset-width)) var(--tw-ring-color);box-shadow:var(--tw-ring-offset-shadow),var(--tw-ring-shadow),var(--tw-shadow,0 0 #0000)}.focus-visible\:ring-ring:focus-visible{--tw-ring-opacity:1;--tw-ring-color:hsl(var(--ring)/var(--tw-ring-opacity,1))}.focus-visible\:ring-offset-2:focus-visible{--tw-ring-offset-width:2px}.disabled\:pointer-events-none:disabled{pointer-events:none}.disabled\:opacity-50:disabled{opacity:.5}

diff --git a/mockups/card.html b/mockups/card.html
@@ -35,10 +35,12 @@
 				--destructive-foreground: 0 0% 100%;
 				--ring: 240 55% 55%;
 				--radius: 0.75rem;
-				--telegram: 204 78% 39%;
-				--whatsapp: 173 78% 27%;
-				--sms: 143 70% 30%;
-				--brand-foreground: 0 0% 100%;
+				--telegram: 208 100% 50%;
+				--telegram-foreground: 0 0% 100%;
+				--whatsapp: 169 100% 25%;
+				--whatsapp-foreground: 0 0% 100%;
+				--sms: 280 68% 60%;
+				--sms-foreground: 0 0% 100%;
 			}
 			.screen.dark {
 				--background: 220 20% 8%;
@@ -60,10 +62,12 @@
 				--destructive: 0 70% 62%;
 				--destructive-foreground: 0 0% 100%;
 				--ring: 240 70% 74%;
-				--telegram: 200 85% 55%;
+				--telegram: 216 92% 61%;
+				--telegram-foreground: 0 0% 100%;
 				--whatsapp: 142 70% 49%;
-				--sms: 135 59% 49%;
-				--brand-foreground: 220 20% 8%;
+				--whatsapp-foreground: 220 20% 8%;
+				--sms: 280 85% 65%;
+				--sms-foreground: 0 0% 100%;
 			}
 			.font-display {
 				font-family: 'Bricolage Grotesque', ui-sans-serif, system-ui, sans-serif;
@@ -559,13 +563,13 @@
 			const pills = (off = false) =>
 				`<div class="grid gap-3">` +
 				[
-					['tg', 'Telegram', 'bg-[hsl(var(--telegram))] hover:bg-[hsl(var(--telegram))]/90'],
-					['wa', 'WhatsApp', 'bg-[hsl(var(--whatsapp))] hover:bg-[hsl(var(--whatsapp))]/90'],
-					['sms', 'SMS', 'bg-[hsl(var(--sms))] hover:bg-[hsl(var(--sms))]/90'],
+					['tg', 'Telegram', 'bg-[hsl(var(--telegram))] text-[hsl(var(--telegram-foreground))] hover:bg-[hsl(var(--telegram))]/90'],
+					['wa', 'WhatsApp', 'bg-[hsl(var(--whatsapp))] text-[hsl(var(--whatsapp-foreground))] hover:bg-[hsl(var(--whatsapp))]/90'],
+					['sms', 'SMS', 'bg-[hsl(var(--sms))] text-[hsl(var(--sms-foreground))] hover:bg-[hsl(var(--sms))]/90'],
 				]
 					.map(
 						([k, label, cls]) =>
-							`<a href="#" class="${BTN} ${SIZE.lg} w-full text-[hsl(var(--brand-foreground))] font-semibold ${cls} ${disabledCls(off)}" ${disabledAttr(off)}>${brand(k)}${label}</a>`,
+							`<a href="#" class="${BTN} ${SIZE.lg} w-full text-xl font-bold ${cls} ${disabledCls(off)}" ${disabledAttr(off)}>${brand(k)}${label}</a>`,
 					)
 					.join('') +
 				`</div>`;

diff --git a/src/components/ActionButtons.svelte b/src/components/ActionButtons.svelte
@@ -13,7 +13,7 @@
 
 	const hrefs = $derived(e164 ? links(e164) : null);
 	const disabled = $derived(!hrefs);
-	const base = "h-12 w-full rounded-full text-base font-semibold text-brand-foreground [&_svg]:size-5";
+	const base = "h-12 w-full rounded-full text-xl font-bold [&_svg]:size-5";
 	const off = "pointer-events-none opacity-50";
 </script>
 
@@ -22,7 +22,7 @@
 		href={hrefs?.telegram ?? "#"}
 		target="_blank"
 		size="lg"
-		class="{base} bg-telegram hover:bg-telegram/90 {disabled ? off : ''}"
+		class="{base} bg-telegram text-telegram-foreground hover:bg-telegram/90 {disabled ? off : ''}"
 		aria-disabled={disabled}
 		tabindex={disabled ? -1 : undefined}
 	>
@@ -33,7 +33,7 @@
 		href={hrefs?.whatsapp ?? "#"}
 		target="_blank"
 		size="lg"
-		class="{base} bg-whatsapp hover:bg-whatsapp/90 {disabled ? off : ''}"
+		class="{base} bg-whatsapp text-whatsapp-foreground hover:bg-whatsapp/90 {disabled ? off : ''}"
 		aria-disabled={disabled}
 		tabindex={disabled ? -1 : undefined}
 	>
@@ -44,7 +44,7 @@
 		href={hrefs?.sms ?? "#"}
 		target="_blank"
 		size="lg"
-		class="{base} bg-sms hover:bg-sms/90 {disabled ? off : ''}"
+		class="{base} bg-sms text-sms-foreground hover:bg-sms/90 {disabled ? off : ''}"
 		aria-disabled={disabled}
 		tabindex={disabled ? -1 : undefined}
 	>

diff --git a/tailwind.config.ts b/tailwind.config.ts
@@ -48,10 +48,18 @@ const config: Config = {
 					DEFAULT: "hsl(var(--card) / <alpha-value>)",
 					foreground: "hsl(var(--card-foreground) / <alpha-value>)"
 				},
-				telegram: "hsl(var(--telegram) / <alpha-value>)",
-				whatsapp: "hsl(var(--whatsapp) / <alpha-value>)",
-				sms: "hsl(var(--sms) / <alpha-value>)",
-				"brand-foreground": "hsl(var(--brand-foreground) / <alpha-value>)"
+				telegram: {
+					DEFAULT: "hsl(var(--telegram) / <alpha-value>)",
+					foreground: "hsl(var(--telegram-foreground) / <alpha-value>)"
+				},
+				whatsapp: {
+					DEFAULT: "hsl(var(--whatsapp) / <alpha-value>)",
+					foreground: "hsl(var(--whatsapp-foreground) / <alpha-value>)"
+				},
+				sms: {
+					DEFAULT: "hsl(var(--sms) / <alpha-value>)",
+					foreground: "hsl(var(--sms-foreground) / <alpha-value>)"
+				}
 			},
 			borderRadius: {
 				lg: "var(--radius)",

diff --git a/src/app.css b/src/app.css
@@ -34,10 +34,12 @@
 		--ring: 240 55% 55%;
 		--radius: 0.75rem;
 
-		--telegram: 204 78% 39%;
-		--whatsapp: 173 78% 27%;
-		--sms: 143 70% 30%;
-		--brand-foreground: 0 0% 100%;
+		--telegram: 208 100% 50%;
+		--telegram-foreground: 0 0% 100%;
+		--whatsapp: 169 100% 25%;
+		--whatsapp-foreground: 0 0% 100%;
+		--sms: 280 68% 60%;
+		--sms-foreground: 0 0% 100%;
 	}
 
 	.dark {
@@ -70,10 +72,12 @@
 
 		--ring: 240 70% 74%;
 
-		--telegram: 200 85% 55%;
+		--telegram: 216 92% 61%;
+		--telegram-foreground: 0 0% 100%;
 		--whatsapp: 142 70% 49%;
-		--sms: 135 59% 49%;
-		--brand-foreground: 220 20% 8%;
+		--whatsapp-foreground: 220 20% 8%;
+		--sms: 280 85% 65%;
+		--sms-foreground: 0 0% 100%;
 	}
 }
 

diff --git a/analysis/contrast.py b/analysis/contrast.py
@@ -62,3 +62,22 @@ for name, a, b in pairs:
 	r = ratio(a, b)
 	mark = 'AAA' if r >= 7 else 'AA' if r >= 4.5 else 'AA-large' if r >= 3 else 'FAIL'
 	print(f'{r:5.2f}  {mark:8}  {name}  ({a} on {b})')
+
+print('--- brand colors as used by the apps ---')
+BRAND = [('telegram #2AABEE', '#2AABEE'), ('whatsapp #25D366', '#25D366'), ('sms (iOS Messages) #34C759', '#34C759')]
+for name, hex_color in BRAND:
+	for label, text in (('white text', WHITE), ('dark text', LIGHT_FG), ('icon on white card', WHITE)):
+		r = ratio(hex_color, text)
+		mark = 'AAA' if r >= 7 else 'AA' if r >= 4.5 else 'AA-large' if r >= 3 else 'FAIL'
+		print(f'{r:5.2f}  {mark:8}  {name} + {label}')
+
+print('--- per-app light/dark accents, text options ---')
+DARK_INK = hsl_to_hex(220, 20, 8)
+PAIRS = [
+	('telegram light #0088FF', '#0088FF'), ('telegram dark #3E88F7', '#3E88F7'),
+	('whatsapp light #008069', '#008069'), ('whatsapp light #1DAA61', '#1DAA61'), ('whatsapp dark #25D366', '#25D366'), ('whatsapp dark #21C063', '#21C063'),
+	('purple light #AF52DE', '#AF52DE'), ('purple dark #BF5AF2', '#BF5AF2'),
+]
+for name, hex_color in PAIRS:
+	w, d = ratio(hex_color, WHITE), ratio(hex_color, DARK_INK)
+	print(f'{name}: white {w:4.2f}  dark {d:4.2f}')
